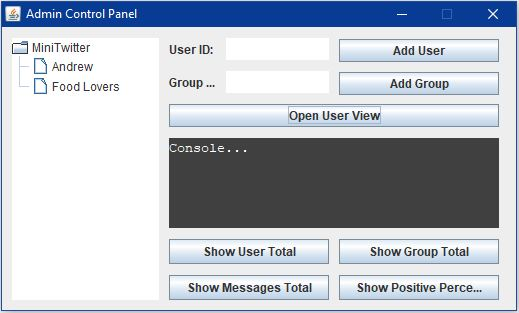
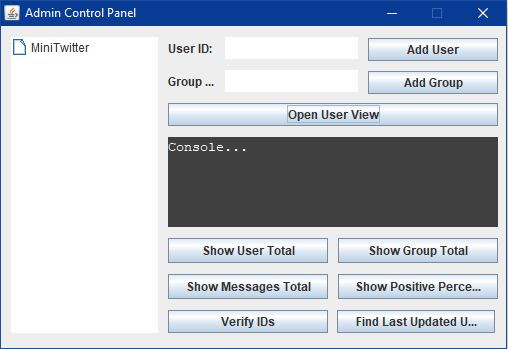
Add files via upload

Changed region(s): [[0.0, 0.0, 1.0, 1.0], [0.3248, 0.115, 0.4134, 0.1725]]

diff --git a/AdminControlPanel.java b/AdminControlPanel.java
@@ -84,7 +84,7 @@ public class AdminControlPanel extends JFrame {
 		setResizable(false);
 		setTitle("Admin Control Panel");
 		setDefaultCloseOperation(JFrame.EXIT_ON_CLOSE);
-		setBounds(100, 100, 520, 312);
+		setBounds(100, 100, 511, 351);
 		getContentPane().setLayout(null);
 		
 		JTree tree = new JTree();
@@ -95,11 +95,11 @@ public class AdminControlPanel extends JFrame {
 				}
 			}
 		));
-		tree.setBounds(10, 11, 147, 262);
+		tree.setBounds(10, 11, 147, 296);
 		getContentPane().add(tree);
 		
 		JTextArea txtAreaUserID = new JTextArea();
-		txtAreaUserID.setBounds(224, 11, 103, 22);
+		txtAreaUserID.setBounds(224, 11, 133, 22);
 		getContentPane().add(txtAreaUserID);
 		
 		JTextArea txtrConsole = new JTextArea();
@@ -128,11 +128,11 @@ public class AdminControlPanel extends JFrame {
 				model.reload();
 			}
 		});
-		btnAddUser.setBounds(337, 12, 160, 23);
+		btnAddUser.setBounds(367, 12, 130, 23);
 		getContentPane().add(btnAddUser);
 		
 		JTextArea txtAreaGroupID = new JTextArea();
-		txtAreaGroupID.setBounds(224, 44, 103, 22);
+		txtAreaGroupID.setBounds(224, 44, 133, 22);
 		getContentPane().add(txtAreaGroupID);
 		
 		JButton btnAddGroup = new JButton("Add Group");
@@ -150,7 +150,7 @@ public class AdminControlPanel extends JFrame {
 				model.reload();
 			}
 		});
-		btnAddGroup.setBounds(337, 45, 160, 23);
+		btnAddGroup.setBounds(367, 45, 130, 23);
 		getContentPane().add(btnAddGroup);
 		
 		JButton btnOpenUserView = new JButton("Open User View");
@@ -212,5 +212,19 @@ public class AdminControlPanel extends JFrame {
 		JLabel lblGroupId = new JLabel("Group ID:");
 		lblGroupId.setBounds(167, 44, 47, 22);
 		getContentPane().add(lblGroupId);
+		
+		JButton btnVerifyIds = new JButton("Verify IDs");
+		//Verify no duplicate IDs are present in Tree
+		btnVerifyIds.addActionListener(new ActionListener() {
+			public void actionPerformed(ActionEvent arg0) {
+				
+			}
+		});
+		btnVerifyIds.setBounds(167, 284, 160, 23);
+		getContentPane().add(btnVerifyIds);
+		
+		JButton btnFindLastUpdated = new JButton("Find Last Updated User");
+		btnFindLastUpdated.setBounds(336, 284, 158, 23);
+		getContentPane().add(btnFindLastUpdated);
 	}
 }

diff --git a/User.java b/User.java
@@ -7,6 +7,13 @@ public class User implements Int_UserElement {
 	private Vector<String> followers = new Vector<String>(0);		//vector of IDs, lists the user's followers' IDs
 	private Vector<String> following = new Vector<String>(0);		//vector of IDs, lists the IDs of the individuals the user is following
 	private Vector<String> feed = new Vector<String>(0);			//vector that will hold the Tweets and act as the user's "newsfeed"
+	private long creationTime;										//Time at which User was created
+	private long updateTime;										//TIme at which User was last updated
+	
+	public User() {
+		this.creationTime = System.currentTimeMillis();
+		this.updateTime = creationTime;
+	}
 	
 	String getID() {
 		return this.ID;

diff --git a/UserGroup.java b/UserGroup.java
@@ -5,6 +5,11 @@ import java.util.Vector;
 public class UserGroup implements Int_UserElement{
 	private String ID;												//unique ID to identify individual groups
 	private Vector<String> followers = new Vector<String>(0);		//vector of IDs to list the members of the group (user and/or user groups)
+	private long creationTime;										//Time at which userGroup was created
+	
+	public UserGroup() {
+		this.creationTime = System.currentTimeMillis();
+	}
 	
 	String getID() {
 		return this.ID;
